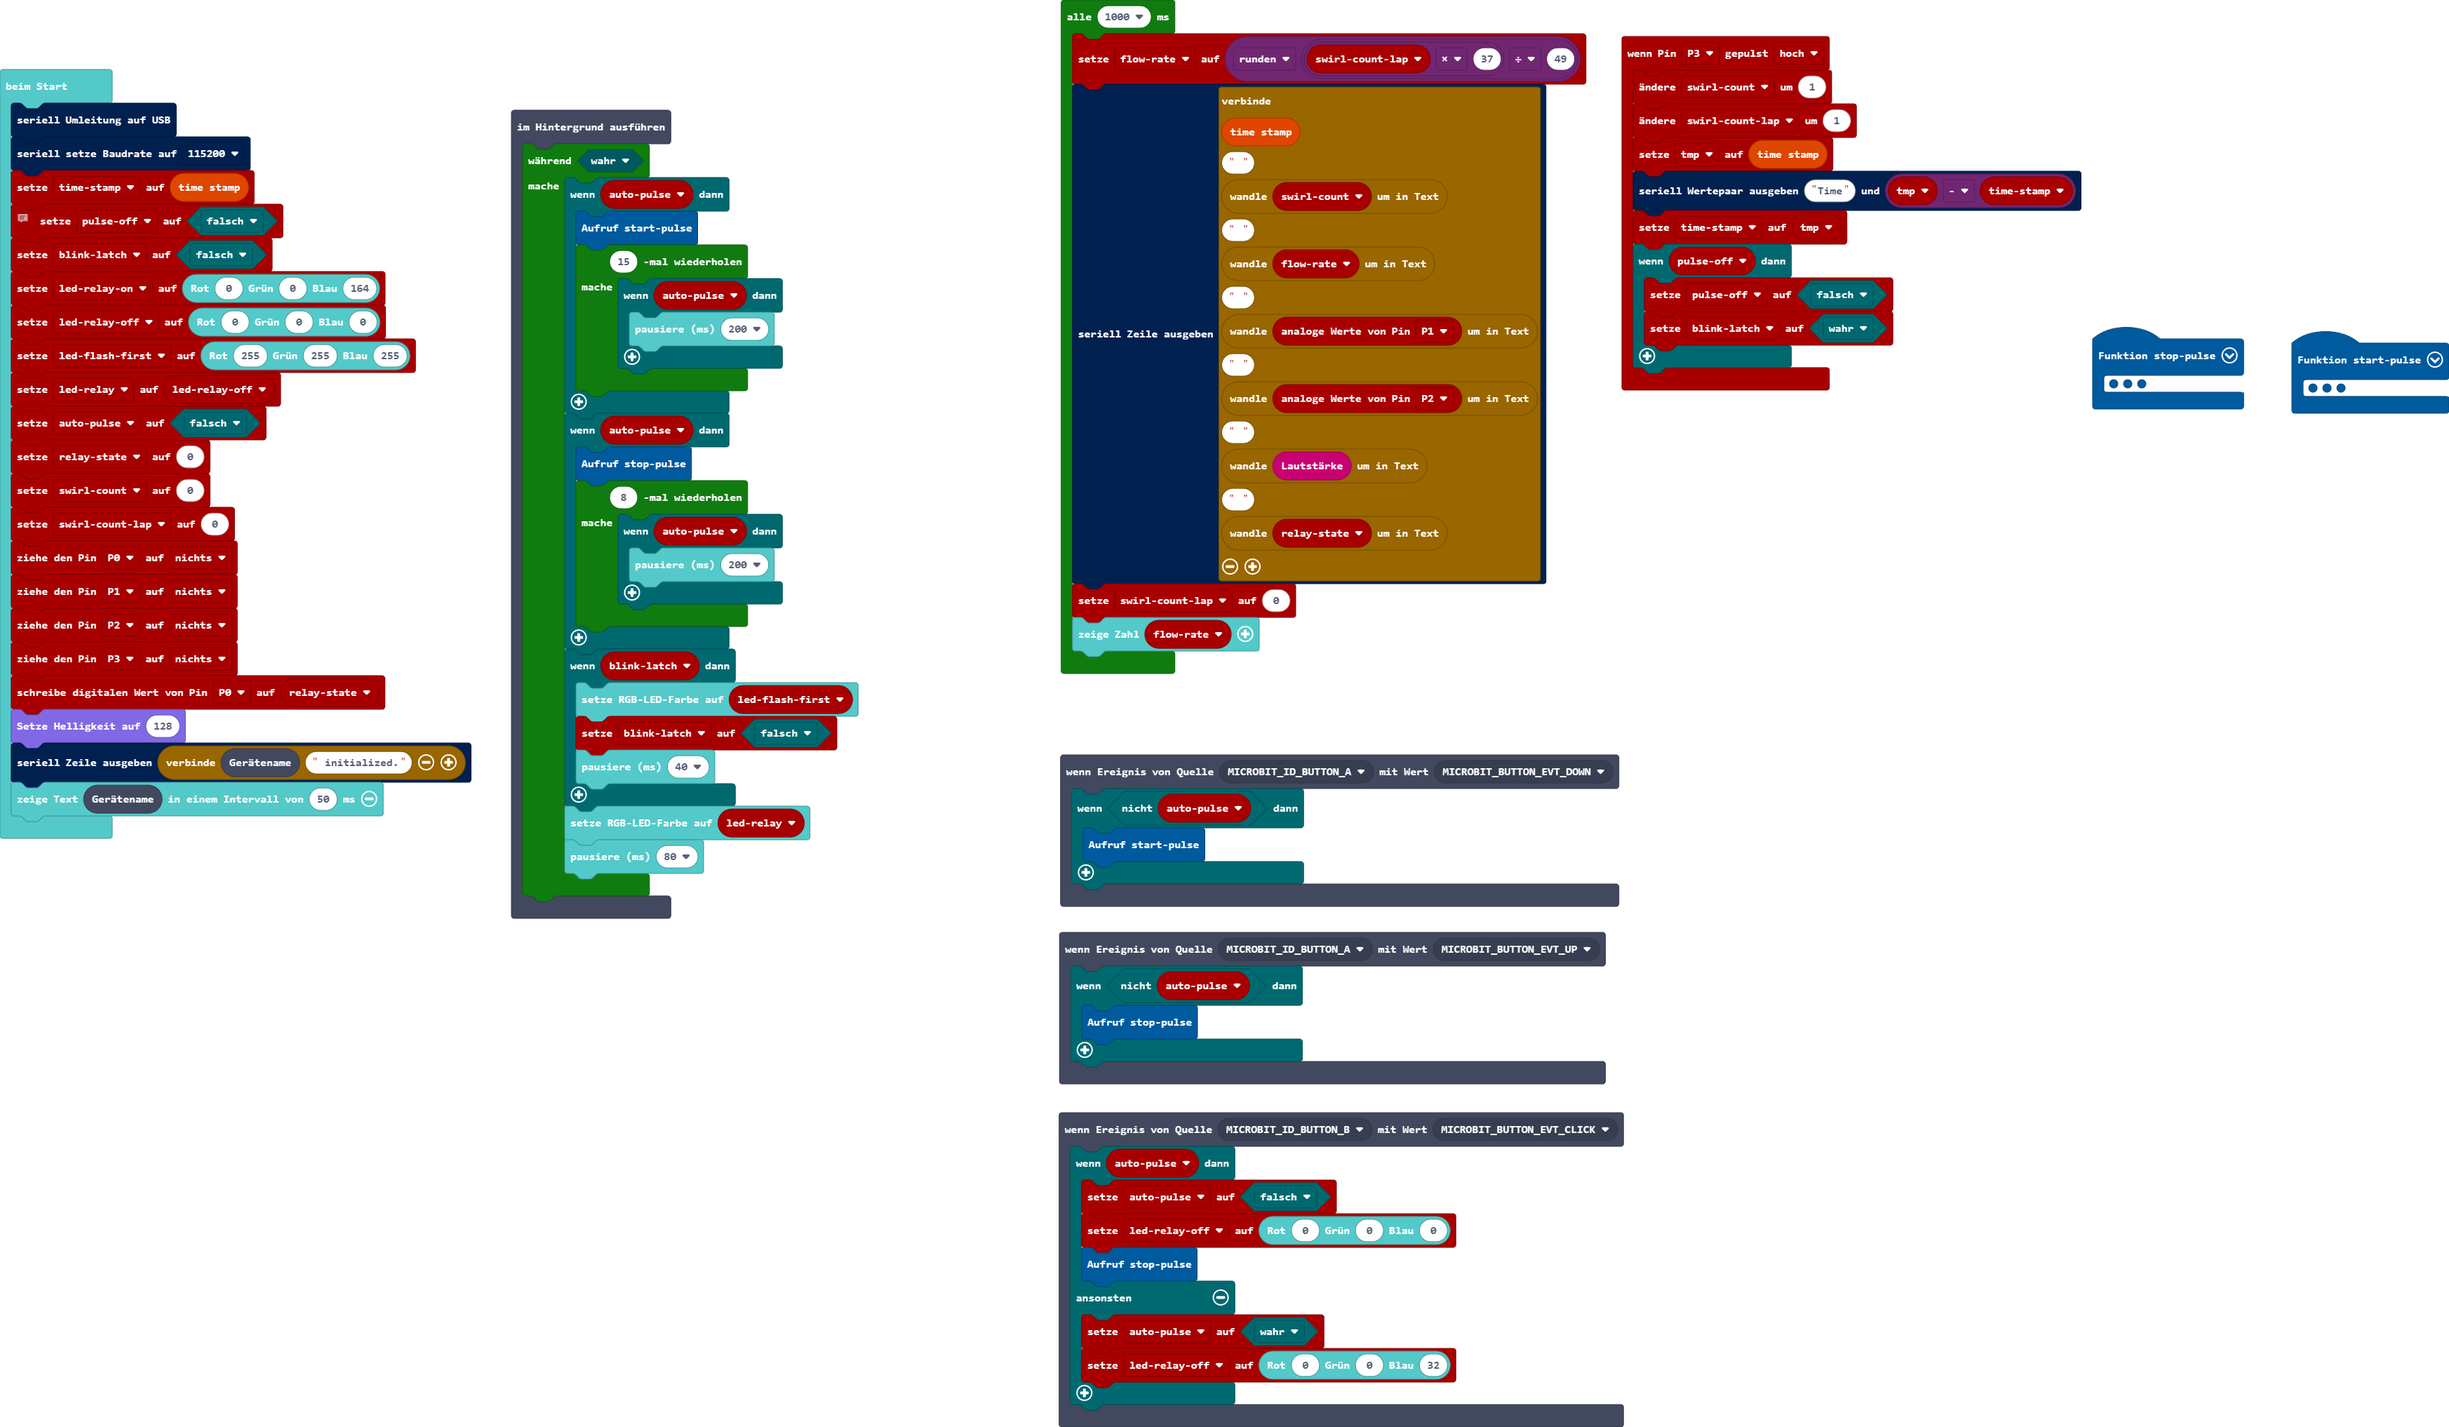
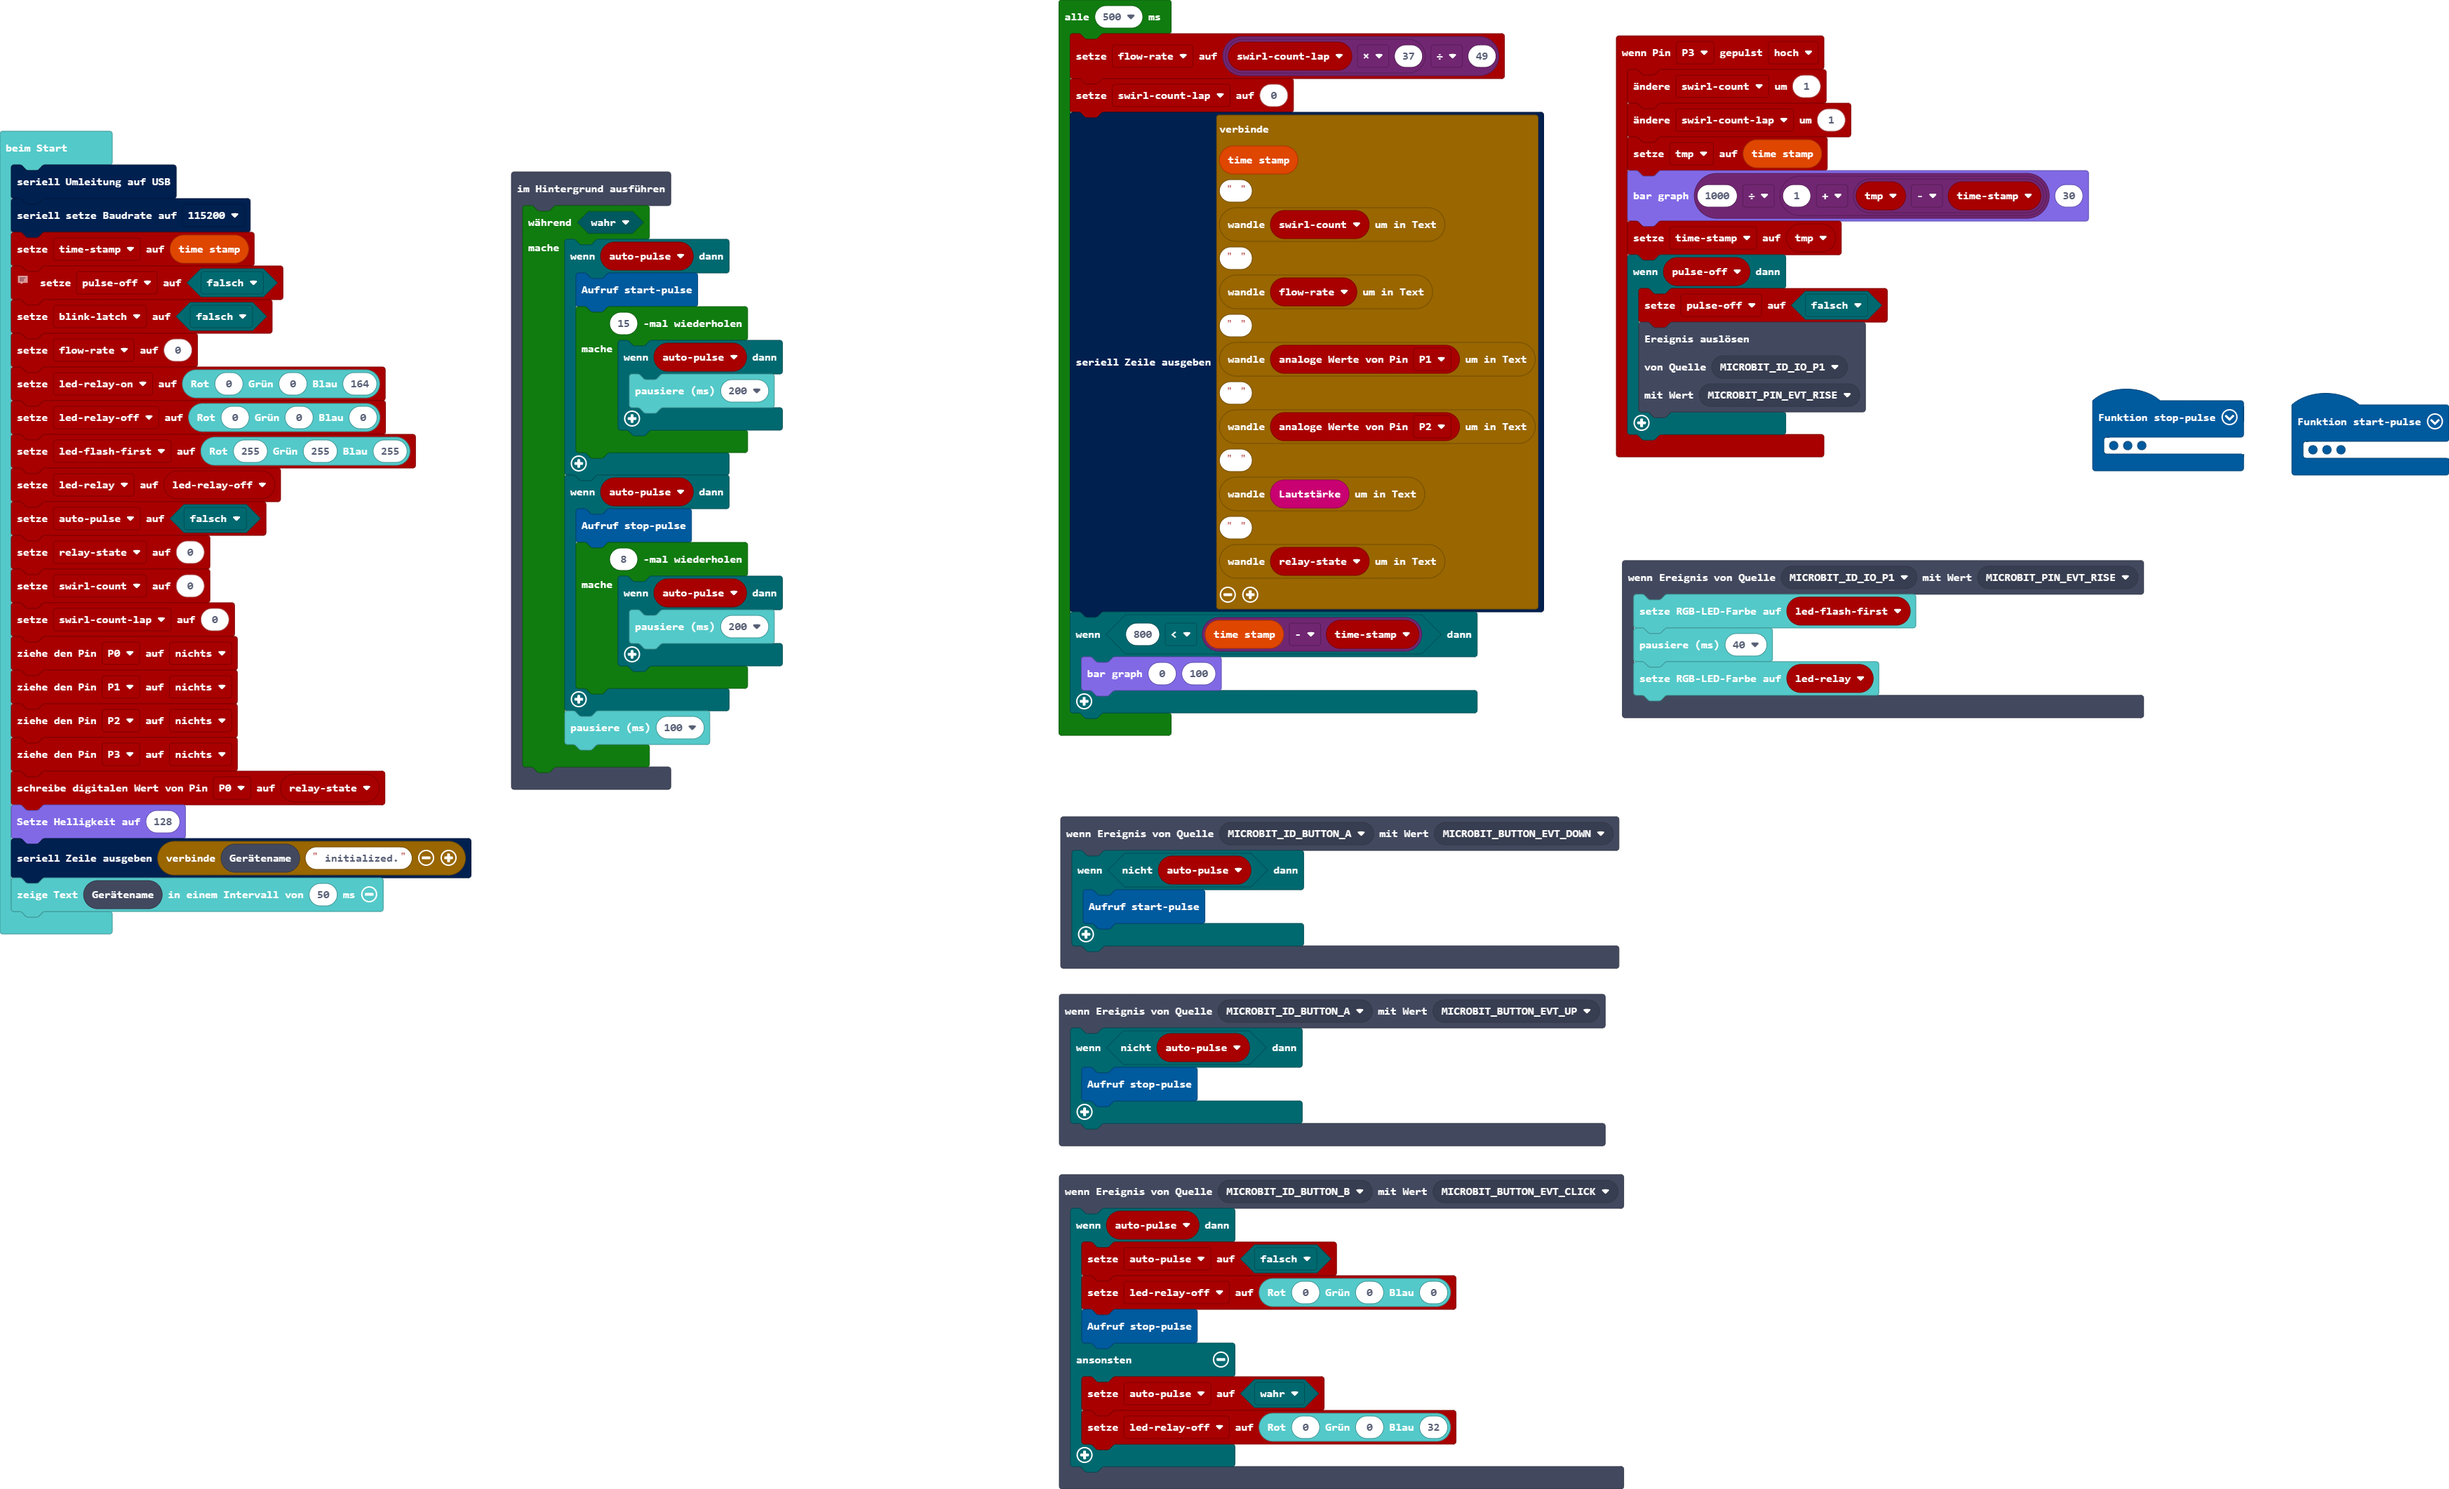
End of day commit.

diff --git a/main.ts b/main.ts
@@ -42,21 +42,28 @@ pins.onPulsed(DigitalPin.P3, PulseValue.High, function () {
     swirlcount += 1
     swirlcountlap += 1
     tmp = diverseTools.timeStamp()
-    serial.writeValue("Time", tmp - timestamp)
+    squareDisplay.barGraph(1000 / (1 + (tmp - timestamp)), 30)
     timestamp = tmp
     if (pulseoff) {
         pulseoff = false
-        blinklatch = true
+        control.raiseEvent(
+        EventBusSource.MICROBIT_ID_IO_P1,
+        EventBusValue.MICROBIT_PIN_EVT_RISE
+        )
     }
 })
-let flowrate = 0
+control.onEvent(EventBusSource.MICROBIT_ID_IO_P1, EventBusValue.MICROBIT_PIN_EVT_RISE, function () {
+    basic.setLedColor(ledflashfirst)
+    basic.pause(40)
+    basic.setLedColor(ledrelay)
+})
 let tmp = 0
 let relaystate = 0
 let autopulse = false
 let ledrelay = 0
+let ledflashfirst = 0
 let ledrelayoff = 0
 let ledrelayon = 0
-let blinklatch = false
 let pulseoff = false
 let timestamp = 0
 serial.redirectToUSB()
@@ -64,10 +71,11 @@ serial.setBaudRate(BaudRate.BaudRate115200)
 timestamp = diverseTools.timeStamp()
 // Variable is 'true' after relay has been switched to 'off' until next flow meter pulse is received.
 pulseoff = false
-blinklatch = false
+let blinklatch = false
+let flowrate = 0
 ledrelayon = basic.rgb(0, 0, 164)
 ledrelayoff = basic.rgb(0, 0, 0)
-let ledflashfirst = basic.rgb(255, 255, 255)
+ledflashfirst = basic.rgb(255, 255, 255)
 ledrelay = ledrelayoff
 autopulse = false
 relaystate = 0
@@ -81,11 +89,13 @@ pins.digitalWritePin(DigitalPin.P0, relaystate)
 led.setBrightness(128)
 serial.writeLine("" + control.deviceName() + " initialized.")
 basic.showString(control.deviceName(), 50)
-loops.everyInterval(1000, function () {
-    flowrate = Math.round(swirlcountlap * 37 / 49)
-    serial.writeLine("" + diverseTools.timeStamp() + " " + convertToText(swirlcount) + " " + convertToText(flowrate) + " " + convertToText(pins.analogReadPin(AnalogPin.P1)) + " " + convertToText(pins.analogReadPin(AnalogPin.P2)) + " " + convertToText(input.soundLevel()) + " " + convertToText(relaystate))
+loops.everyInterval(500, function () {
+    flowrate = swirlcountlap * 37 / 49
     swirlcountlap = 0
-    basic.showNumber(flowrate)
+    serial.writeLine("" + diverseTools.timeStamp() + " " + convertToText(swirlcount) + " " + convertToText(flowrate) + " " + convertToText(pins.analogReadPin(AnalogPin.P1)) + " " + convertToText(pins.analogReadPin(AnalogPin.P2)) + " " + convertToText(input.soundLevel()) + " " + convertToText(relaystate))
+    if (800 < diverseTools.timeStamp() - timestamp) {
+        squareDisplay.barGraph(0, 100)
+    }
 })
 control.inBackground(function () {
     while (true) {
@@ -105,12 +115,6 @@ control.inBackground(function () {
                 }
             }
         }
-        if (blinklatch) {
-            basic.setLedColor(ledflashfirst)
-            blinklatch = false
-            basic.pause(40)
-        }
-        basic.setLedColor(ledrelay)
-        basic.pause(80)
+        basic.pause(100)
     }
 })
